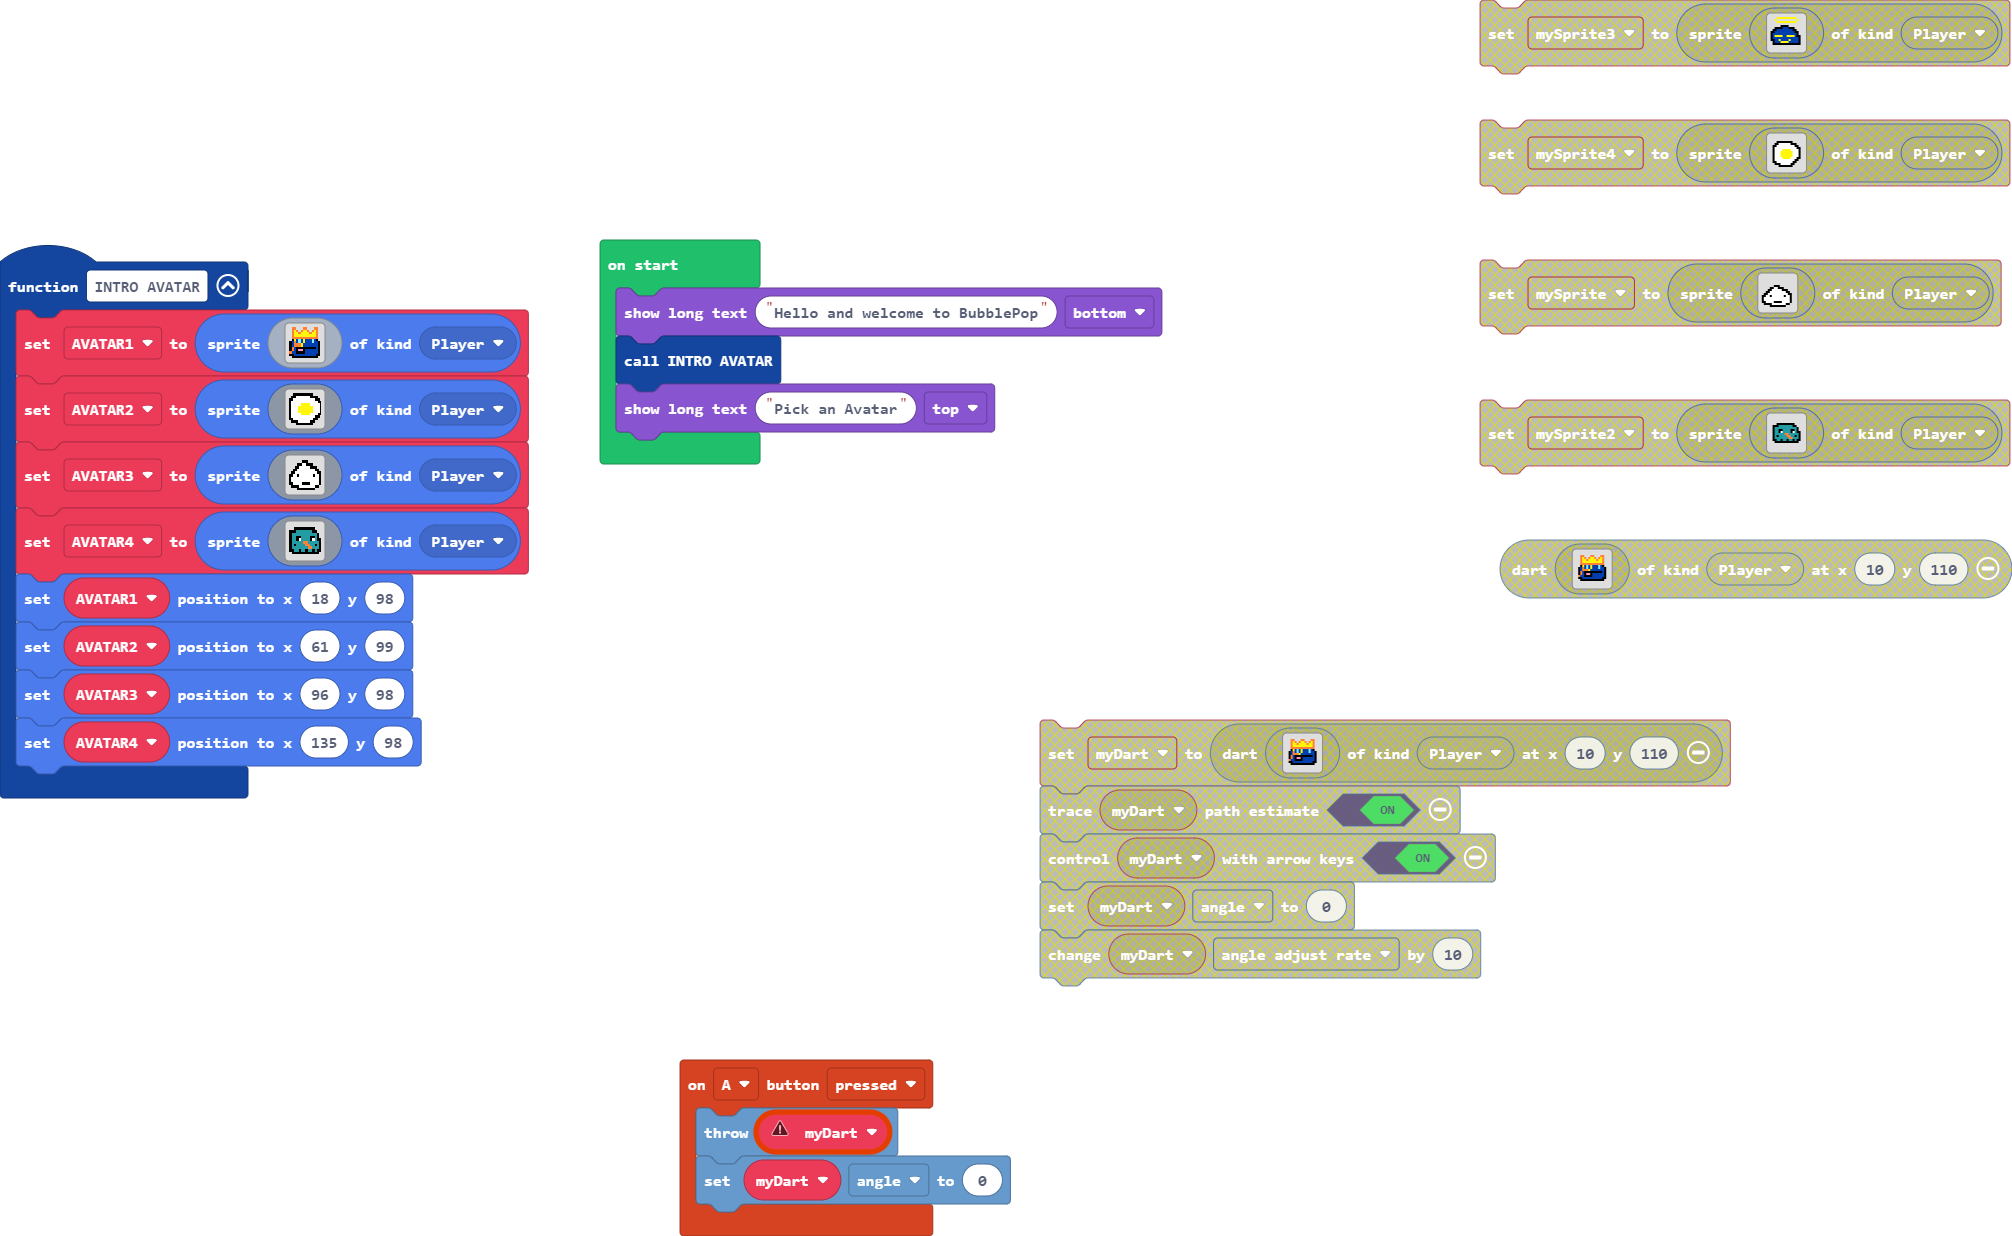
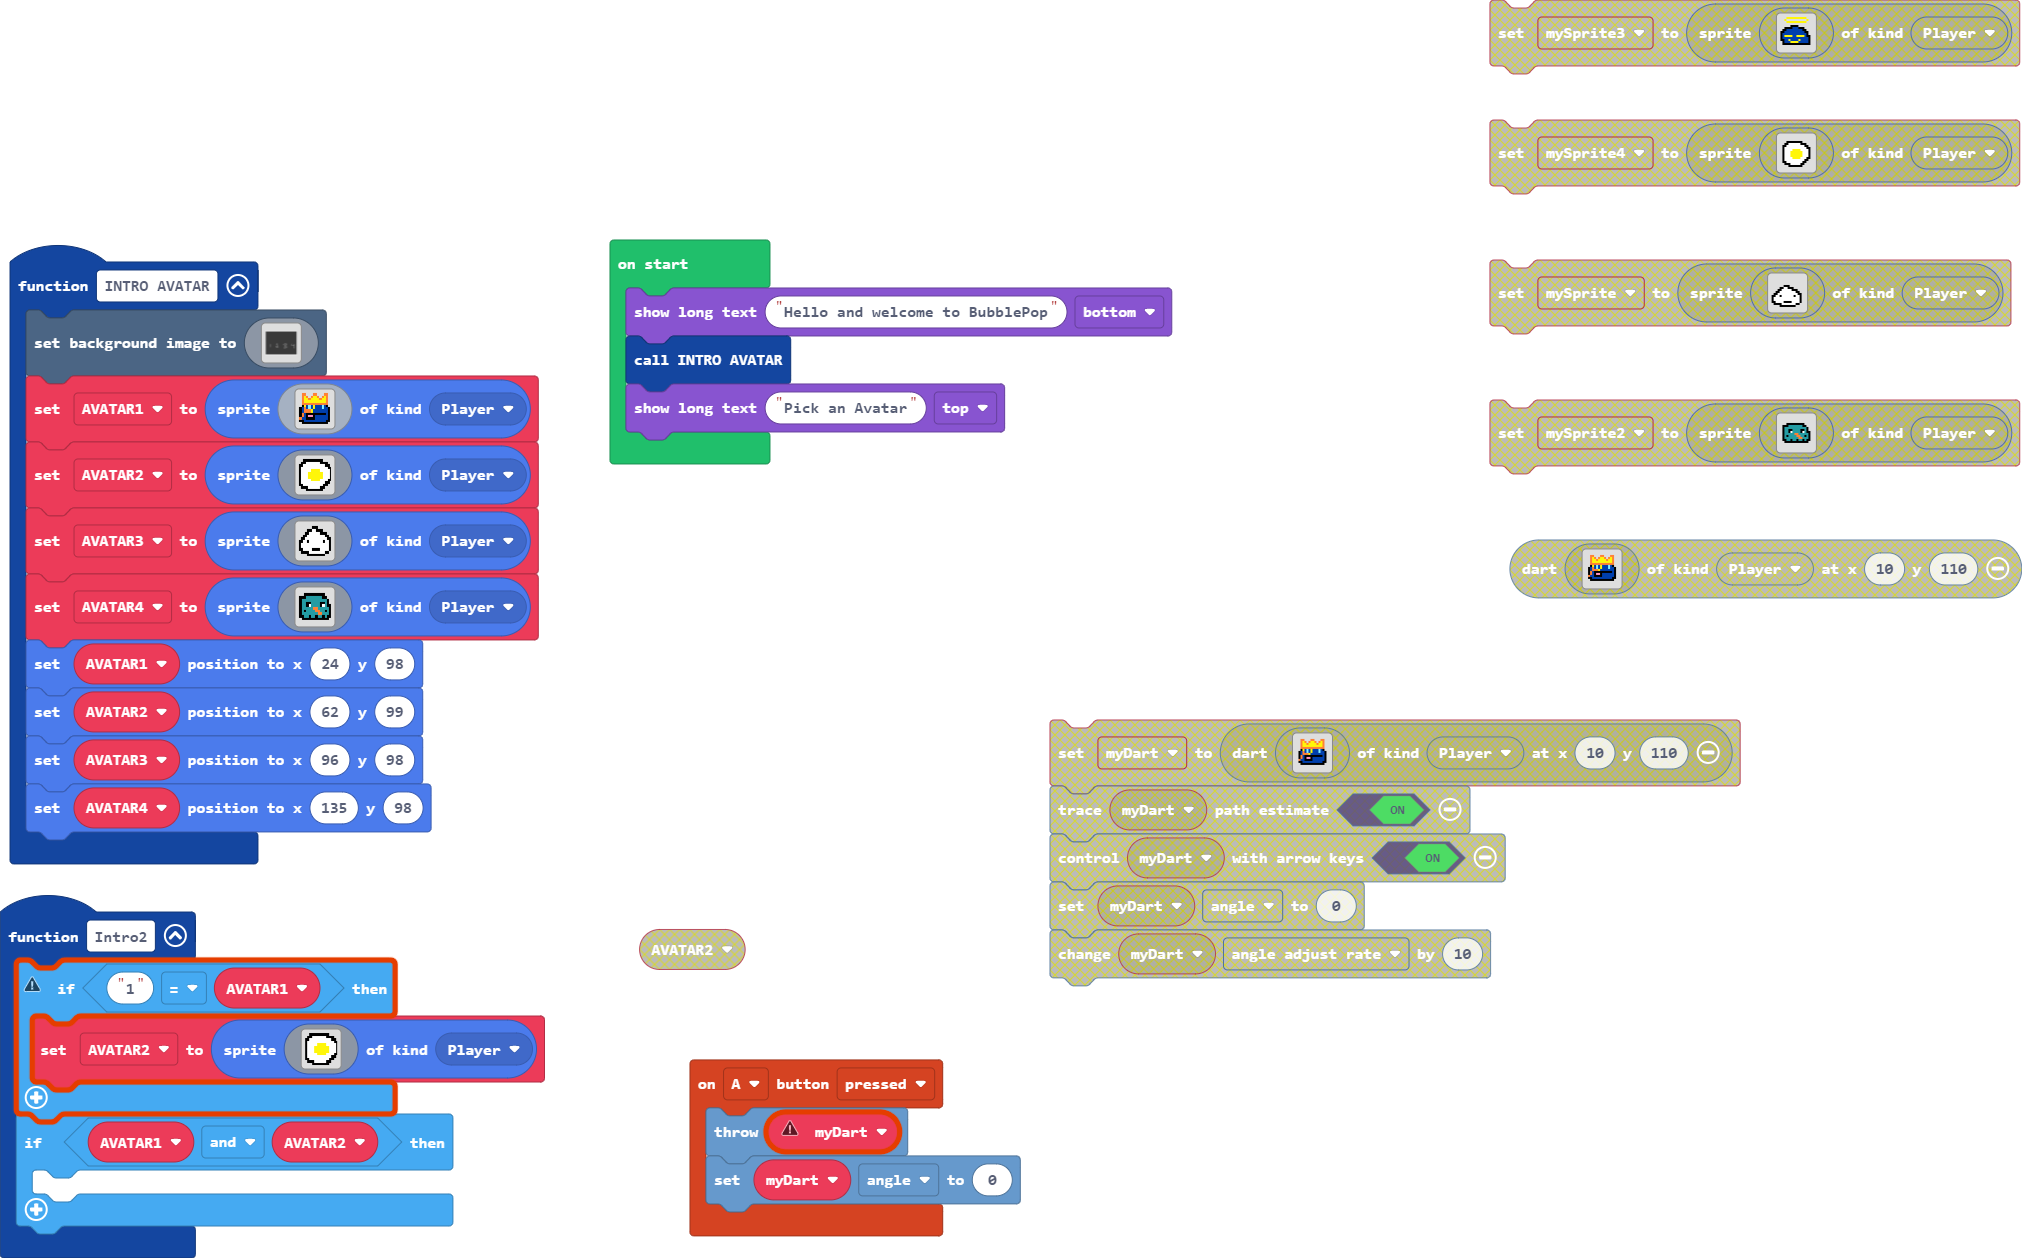
Update main.blocks, main.ts

diff --git a/main.ts b/main.ts
@@ -3,7 +3,170 @@ controller.A.onEvent(ControllerButtonEvent.Pressed, function () {
     myDart.throwDart()
     myDart.angle = 0
 })
+function Intro2 () {
+    if ("1" == AVATAR1) {
+        AVATAR2 = sprites.create(img`
+            ....ffffffffffffffffffff........
+            ....ffffffffffffffffffff........
+            ....ffffffffffffffffffff........
+            ..fffff11111111111111ffffffff...
+            ..fffff11111111111111ffffffff...
+            ffff1111111111111111111111fffff.
+            ffff1111111111111111111111fffff.
+            ffff1111111111111111111111fffff.
+            ff111111111111111111111111111fff
+            ff111111111111111111111111111fff
+            ff11111111115555555551111111111f
+            ff11111111115555555551111111111f
+            ff11111111115555555551111111111f
+            ff11111115555555555555551111111f
+            ff11111115555555555555551111111f
+            ff11111115555555555555551111111f
+            ff11111115555555555555551111111f
+            ff11111115555555555555551111111f
+            ff11111115555555555555551111111f
+            ff11111115555555555555551111111f
+            ff111111111155555555511111111fff
+            ff111111111155555555511111111fff
+            ff111111111111111111111111fffff.
+            ff111111111111111111111111fffff.
+            ff111111111111111111111111fffff.
+            ffff11111111111111111111fffff...
+            ffff11111111111111111111fffff...
+            ..fffffff111111111111fffff......
+            ..fffffff111111111111fffff......
+            ..fffffff111111111111fffff......
+            .......fffffffffffffffff........
+            .......fffffffffffffffff........
+            `, SpriteKind.Player)
+    }
+    if (AVATAR1 && AVATAR2) {
+    	
+    }
+}
 function INTRO_AVATAR () {
+    scene.setBackgroundImage(img`
+        1111111111111111111111111111111111111111111111111111111111111111111111111111111111111111111111111111111111111111111111111111111111111111111111111111111111111111
+        1111111111111111111111111111111111111111111111111111111111111111111111111111111111111111111111111111111111111111111111111111111111111111111111111111111111111111
+        1111111111111111111111111111111111111111111111111111111111111111111111111111111111111111111111111111111111111111111111111111111111111111111111111111111111111111
[114 lines of base64/hex data omitted]
+        1111111111111111111111111111111111111111111111111111111111111111111111111111111111111111111111111111111111111111111111111111111111111111111111111111111111111111
+        1111111111111111111111111111111111111111111111111111111111111111111111111111111111111111111111111111111111111111111111111111111111111111111111111111111111111111
+        1111111111111111111111111111111111111111111111111111111111111111111111111111111111111111111111111111111111111111111111111111111111111111111111111111111111111111
+        `)
     AVATAR1 = sprites.create(img`
         ...4444.......4444.......4444...
         ...4444.......4444.......4444...
@@ -140,8 +303,8 @@ function INTRO_AVATAR () {
         ................................
         ................................
         `, SpriteKind.Player)
-    AVATAR1.setPosition(18, 98)
-    AVATAR2.setPosition(61, 99)
+    AVATAR1.setPosition(24, 98)
+    AVATAR2.setPosition(62, 99)
     AVATAR3.setPosition(96, 98)
     AVATAR4.setPosition(135, 98)
 }
